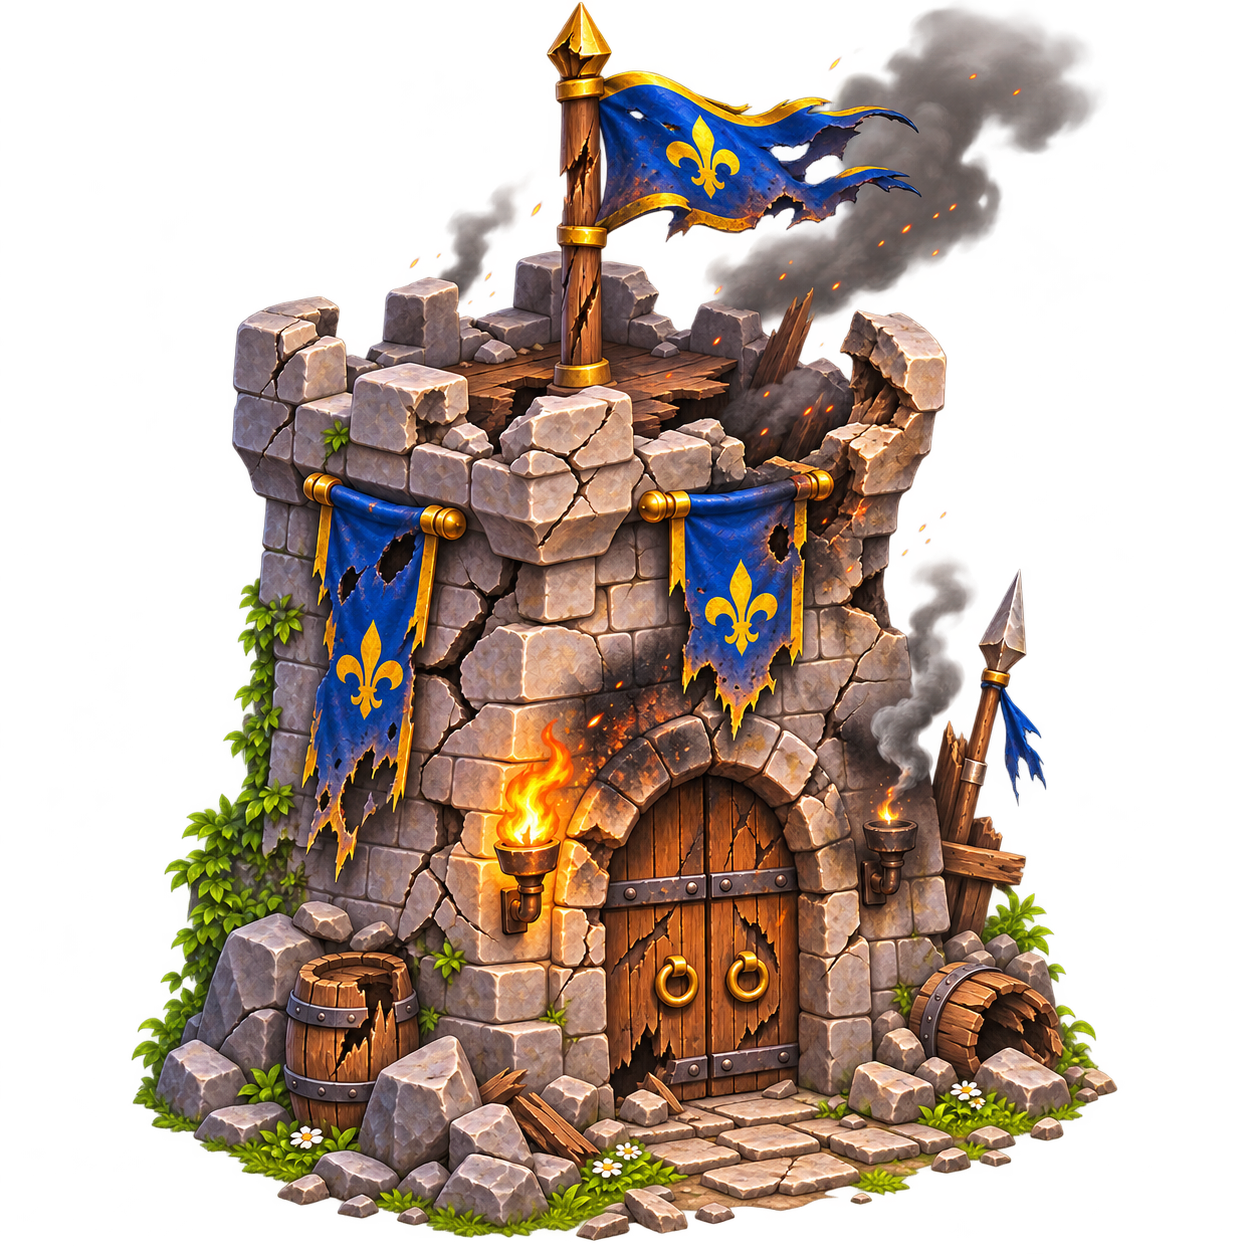
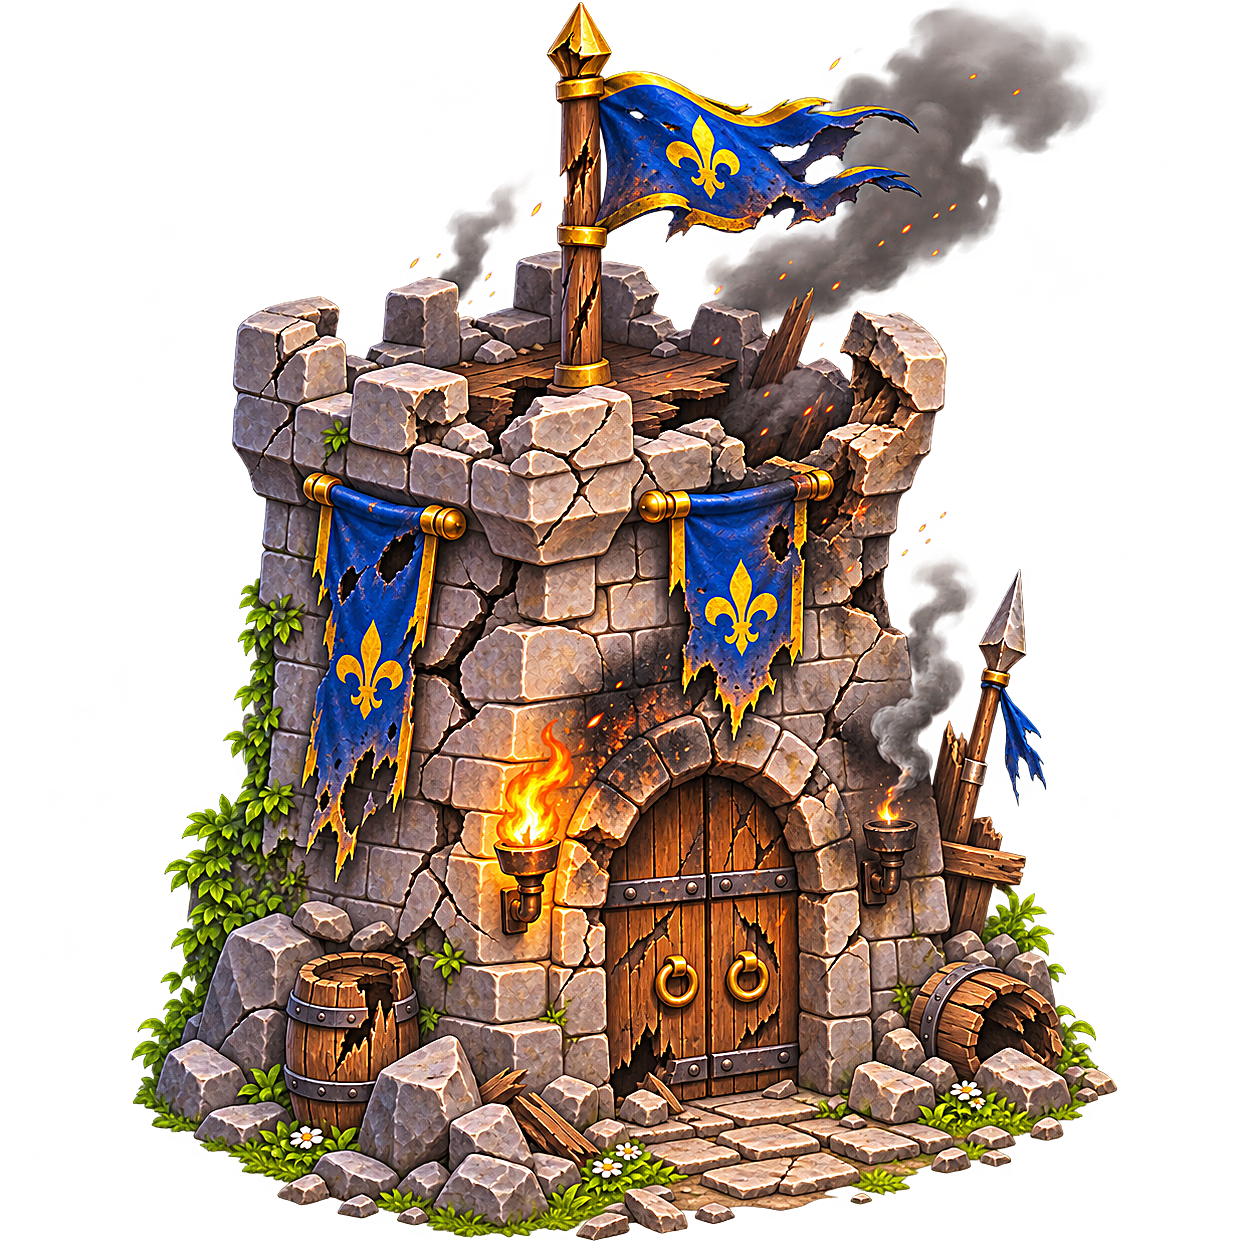
GUI: Meniu principal, castele deteriorate si tranzitie animata

Changed region(s): [[0.1244, 0.0, 0.8708, 0.9952], [0.5909, 0.2177, 0.6531, 0.2799], [0.3421, 0.2177, 0.3732, 0.2488]]

diff --git a/GUI/QtWidgetsApplication1/BoardWidget.cpp b/GUI/QtWidgetsApplication1/BoardWidget.cpp
@@ -6,6 +6,8 @@
 #include <QTransform>
 #include <QString>
 #include <QRect>
+#include <QSize>
+
 BoardWidget::BoardWidget(QWidget* parent)
     : QWidget(parent)
 {}
@@ -19,6 +21,7 @@ void BoardWidget::setBoard(const Board* board)
 void BoardWidget::paintEvent(QPaintEvent*)
 {
     QPainter painter(this);
+    painter.setRenderHint(QPainter::SmoothPixmapTransform, true);
 
     // 1. Desenam fundalul
     QPixmap arena(":/images/arena.png");
@@ -33,33 +36,71 @@ void BoardWidget::paintEvent(QPaintEvent*)
 
     painter.drawPixmap(rect(), arena);
 
+    // 2. Alegem imaginile in functie de viata castelelor
+    QString stareRosu = "normal";
+    QString stareAlbastru = "normal";
 
-    // 2. Incarcam castelele normale
-    QPixmap imagineRosie(":/images/castel_rosu_normal.png");
-    QPixmap imagineAlbastra(":/images/castel_albastru_normal.png");
-
-    if (imagineRosie.isNull() || imagineAlbastra.isNull())
+    if (board_ != nullptr)
     {
-        return;
+        const Castle& rosu = board_->getPlayerCastle();
+        const Castle& albastru = board_->getComputerCastle();
+
+        // Verificam castelul rosu
+        if (rosu.getCurrentHp() <= 0)
+        {
+            stareRosu = "distrus";
+        }
+        else if (rosu.getCurrentHp() <= rosu.getMaxHp() / 2)
+        {
+            stareRosu = "grav_deteriorat";
+        }
+        else if (rosu.getCurrentHp() <= rosu.getMaxHp() * 3 / 4)
+        {
+            stareRosu = "deteriorat";
+        }
+
+        // Verificam castelul albastru
+        if (albastru.getCurrentHp() <= 0)
+        {
+            stareAlbastru = "distrus";
+        }
+        else if (albastru.getCurrentHp() <= albastru.getMaxHp() / 2)
+        {
+            stareAlbastru = "grav_deteriorat";
+        }
+        else if (albastru.getCurrentHp() <= albastru.getMaxHp() * 3 / 4)
+        {
+            stareAlbastru = "deteriorat";
+        }
     }
+
+    QPixmap imagineRosie(
+        QString(":/images/castel_rosu_%1.png").arg(stareRosu)
+    );
+
+    QPixmap imagineAlbastra(
+        QString(":/images/castel_albastru_%1.png").arg(stareAlbastru)
+    );
+
+    QPixmap imagineAlbastraOglindita = imagineAlbastra.transformed(
+        QTransform().scale(-1, 1),
+        Qt::FastTransformation
+    );
 
     // 3. Adaptam dimensiunile la fereastra
     int latimeCastel = width() / 5;
     int inaltimeCastel = height() / 2;
 
-    QPixmap castelRosu = imagineRosie.scaled(
+    QSize dimensiuneRosie = imagineRosie.size();
+    dimensiuneRosie.scale(
         latimeCastel, inaltimeCastel,
-        Qt::KeepAspectRatio,
-        Qt::SmoothTransformation
+        Qt::KeepAspectRatio
     );
 
-    QPixmap castelAlbastru = imagineAlbastra.scaled(
+    QSize dimensiuneAlbastra = imagineAlbastra.size();
+    dimensiuneAlbastra.scale(
         latimeCastel, inaltimeCastel,
-        Qt::KeepAspectRatio,
-        Qt::SmoothTransformation
-    ).transformed(
-        QTransform().scale(-1, 1),
-        Qt::SmoothTransformation
+        Qt::KeepAspectRatio
     );
 
     // 4. Stabilim pozitiile
@@ -68,23 +109,47 @@ void BoardWidget::paintEvent(QPaintEvent*)
     int liniaJos = height() * 82 / 100;
 
     int xRosu = margine;
-    int xAlbastru = width() - margine - castelAlbastru.width();
+    int xAlbastru = width() - margine - dimensiuneAlbastra.width();
 
     // 5. Desenam castelele pe ambele linii
     painter.drawPixmap(
-        xRosu, liniaSus - castelRosu.height(), castelRosu
+        QRect(
+            xRosu,
+            liniaSus - dimensiuneRosie.height(),
+            dimensiuneRosie.width(),
+            dimensiuneRosie.height()
+        ),
+        imagineRosie
     );
 
     painter.drawPixmap(
-        xAlbastru, liniaSus - castelAlbastru.height(), castelAlbastru
+        QRect(
+            xAlbastru,
+            liniaSus - dimensiuneAlbastra.height(),
+            dimensiuneAlbastra.width(),
+            dimensiuneAlbastra.height()
+        ),
+        imagineAlbastraOglindita
     );
 
     painter.drawPixmap(
-        xRosu, liniaJos - castelRosu.height(), castelRosu
+        QRect(
+            xRosu,
+            liniaJos - dimensiuneRosie.height(),
+            dimensiuneRosie.width(),
+            dimensiuneRosie.height()
+        ),
+        imagineRosie
     );
 
     painter.drawPixmap(
-        xAlbastru, liniaJos - castelAlbastru.height(), castelAlbastru
+        QRect(
+            xAlbastru,
+            liniaJos - dimensiuneAlbastra.height(),
+            dimensiuneAlbastra.width(),
+            dimensiuneAlbastra.height()
+        ),
+        imagineAlbastraOglindita
     );
 
     if (board_ != nullptr)
@@ -125,9 +190,52 @@ void BoardWidget::paintEvent(QPaintEvent*)
         painter.fillRect(width() - 205, 45, latimeBara, inaltimeBara, QColor(40, 40, 40));
 
         // Partea verde, proportionala cu viata ramasa
-        painter.fillRect(20, 45, viataRosu, inaltimeBara, QColor(217, 169, 79));
-        painter.fillRect(width() - 205, 45, viataAlbastru, inaltimeBara, QColor(217, 169, 79));
+        QColor culoareRosu(80, 190, 90);
+        QColor culoareAlbastru(80, 190, 90);
+
+        if (rosu.getCurrentHp() <= rosu.getMaxHp() / 2)
+        {
+            culoareRosu = QColor(220, 60, 60);
+        }
+        else if (rosu.getCurrentHp() <= rosu.getMaxHp() * 3 / 4)
+        {
+            culoareRosu = QColor(240, 190, 60);
+        }
+
+        if (albastru.getCurrentHp() <= albastru.getMaxHp() / 2)
+        {
+            culoareAlbastru = QColor(220, 60, 60);
+        }
+        else if (albastru.getCurrentHp() <= albastru.getMaxHp() * 3 / 4)
+        {
+            culoareAlbastru = QColor(240, 190, 60);
+        }
+
+        painter.fillRect(20, 45, viataRosu, inaltimeBara, culoareRosu);
+        painter.fillRect(width() - 205, 45, viataAlbastru, inaltimeBara, culoareAlbastru);
+
+        QString mesaj;
+
+        if (rosu.getCurrentHp() <= 0 && albastru.getCurrentHp() <= 0)
+        {
+            mesaj = "Remiza!";
+        }
+        else if (rosu.getCurrentHp() <= 0)
+        {
+            mesaj = "Albastru a castigat!";
+        }
+        else if (albastru.getCurrentHp() <= 0)
+        {
+            mesaj = "Rosu a castigat!";
+        }
+
+        if (!mesaj.isEmpty())
+        {
+            QRect zonaMesaj(width() / 2 - 160, 15, 320, 40);
+
+            painter.fillRect(zonaMesaj, QColor(0, 0, 0, 180));
+            painter.setPen(Qt::white);
+            painter.drawText(zonaMesaj, Qt::AlignCenter, mesaj);
+        }
     }
-
-
 }

diff --git a/GUI/QtWidgetsApplication1/GameWindow.cpp b/GUI/QtWidgetsApplication1/GameWindow.cpp
@@ -1,6 +1,16 @@
 #include "GameWindow.h"
 #include <QShortcut>
 #include <QKeySequence>
+#include <QStackedWidget>
+#include <QVBoxLayout>
+#include <QLabel>
+#include <QPushButton>
+#include <QPixmap>
+#include <QSizePolicy>
+#include <QGraphicsDropShadowEffect>
+#include <QColor>
+#include <QGraphicsOpacityEffect>
+#include <QPropertyAnimation>
 
 GameWindow::GameWindow(QWidget* parent)
     : QMainWindow(parent)
@@ -8,26 +18,149 @@ GameWindow::GameWindow(QWidget* parent)
     ui.setupUi(this);
     ui.boardArea->setBoard(&board_);
 
-    // Control temporar pentru testarea daunelor
+    auto* pagini = new QStackedWidget(this);
+
+    // 1. Meniul principal
+    auto* paginaStart = new QLabel();
+
+    paginaStart->setPixmap(QPixmap(":/images/arena_meniu.png"));
+    paginaStart->setScaledContents(true);
+    paginaStart->setSizePolicy(QSizePolicy::Ignored, QSizePolicy::Ignored);
+
+    auto* layoutStart = new QVBoxLayout(paginaStart);
+
+    // 2. Titlul jocului
+    auto* titlu = new QLabel("CASTEL CRUSH");
+
+    titlu->setAlignment(Qt::AlignCenter);
+
+    titlu->setStyleSheet(
+        "color: #FFE2A0;"
+        "background: transparent;"
+        "border: none;"
+        "font-family: Georgia;"
+        "font-size: 64px;"
+        "font-weight: bold;"
+    );
+
+    // Umbra titlului
+    auto* umbraTitlu = new QGraphicsDropShadowEffect(titlu);
+
+    umbraTitlu->setBlurRadius(18);
+    umbraTitlu->setOffset(2, 4);
+    umbraTitlu->setColor(QColor(20, 10, 5, 230));
+
+    titlu->setGraphicsEffect(umbraTitlu);
+
+    // 3. Butonul de start
+    auto* butonStart = new QPushButton("INCEPE JOCUL");
+
+    butonStart->setFixedSize(360, 105);
+    butonStart->setCursor(Qt::PointingHandCursor);
+
+    butonStart->setStyleSheet(
+        "QPushButton {"
+        "border: none;"
+        "border-image: url(:/images/buton_start_medieval.png);"
+        "color: #FFE2A0;"
+        "font-family: Georgia;"
+        "font-size: 23px;"
+        "font-weight: bold;"
+        "}"
+        "QPushButton:hover {"
+        "color: white;"
+        "}"
+    );
+
+    // 4. Pozitionarea elementelor
+    layoutStart->addStretch(3);
+    layoutStart->addWidget(titlu, 0, Qt::AlignHCenter);
+    layoutStart->addSpacing(140);
+    layoutStart->addWidget(butonStart, 0, Qt::AlignHCenter);
+    layoutStart->addStretch(8);
+
+    // 5. Paginile jocului
+    pagini->addWidget(paginaStart);
+    pagini->addWidget(ui.boardArea);
+
+    setCentralWidget(pagini);
+
+    ui.menuBar->hide();
+    ui.mainToolBar->hide();
+    ui.statusBar->hide();
+
+    // 6. Trecerea de la meniu la joc
+    connect(butonStart, &QPushButton::clicked, this, [this, pagini, paginaStart]() {
+
+        QPixmap captura = paginaStart->grab();
+
+        pagini->setCurrentWidget(ui.boardArea);
+
+        auto* tranzitie = new QLabel(pagini);
+
+        tranzitie->setPixmap(captura);
+        tranzitie->setScaledContents(true);
+        tranzitie->setGeometry(pagini->rect());
+        tranzitie->show();
+        tranzitie->raise();
+
+        auto* efect = new QGraphicsOpacityEffect(tranzitie);
+
+        tranzitie->setGraphicsEffect(efect);
+        efect->setOpacity(1.0);
+
+        auto* animatie = new QPropertyAnimation(efect, "opacity", tranzitie);
+
+        animatie->setDuration(1500);
+        animatie->setStartValue(1.0);
+        animatie->setEndValue(0.0);
+
+        connect(animatie, &QPropertyAnimation::finished,
+            tranzitie, &QObject::deleteLater);
+
+        animatie->start(QAbstractAnimation::DeleteWhenStopped);
+        });
+
+    // 7. Control temporar pentru testarea daunelor
+
+    // Tasta D - daune pentru castelul albastru
     auto* damageShortcut = new QShortcut(QKeySequence(Qt::Key_D), this);
 
-    connect(damageShortcut, &QShortcut::activated, this, [this]() {
+    connect(damageShortcut, &QShortcut::activated, this, [this, pagini]() {
+
+        if (pagini->currentWidget() != ui.boardArea)
+            return;
+
         board_.getComputerCastle().takeDamage(100);
         ui.boardArea->update();
         });
 
-    setCentralWidget(ui.boardArea);
+    // Tasta A - daune pentru castelul rosu
+    auto* redDamageShortcut = new QShortcut(QKeySequence(Qt::Key_A), this);
 
-    setWindowTitle("Castel Crush");
-    resize(1100, 650);
+    connect(redDamageShortcut, &QShortcut::activated, this, [this, pagini]() {
 
-    // Resetarea tablei pentru testare
+        if (pagini->currentWidget() != ui.boardArea)
+            return;
+
+        board_.getPlayerCastle().takeDamage(100);
+        ui.boardArea->update();
+        });
+
+    // Tasta R - resetarea jocului
     auto* resetShortcut = new QShortcut(QKeySequence(Qt::Key_R), this);
 
-    connect(resetShortcut, &QShortcut::activated, this, [this]() {
+    connect(resetShortcut, &QShortcut::activated, this, [this, pagini]() {
+
+        if (pagini->currentWidget() != ui.boardArea)
+            return;
+
         board_.reset();
         ui.boardArea->update();
         });
+
+    setWindowTitle("Castel Crush");
+    resize(1100, 650);
 }
 
 GameWindow::~GameWindow()
